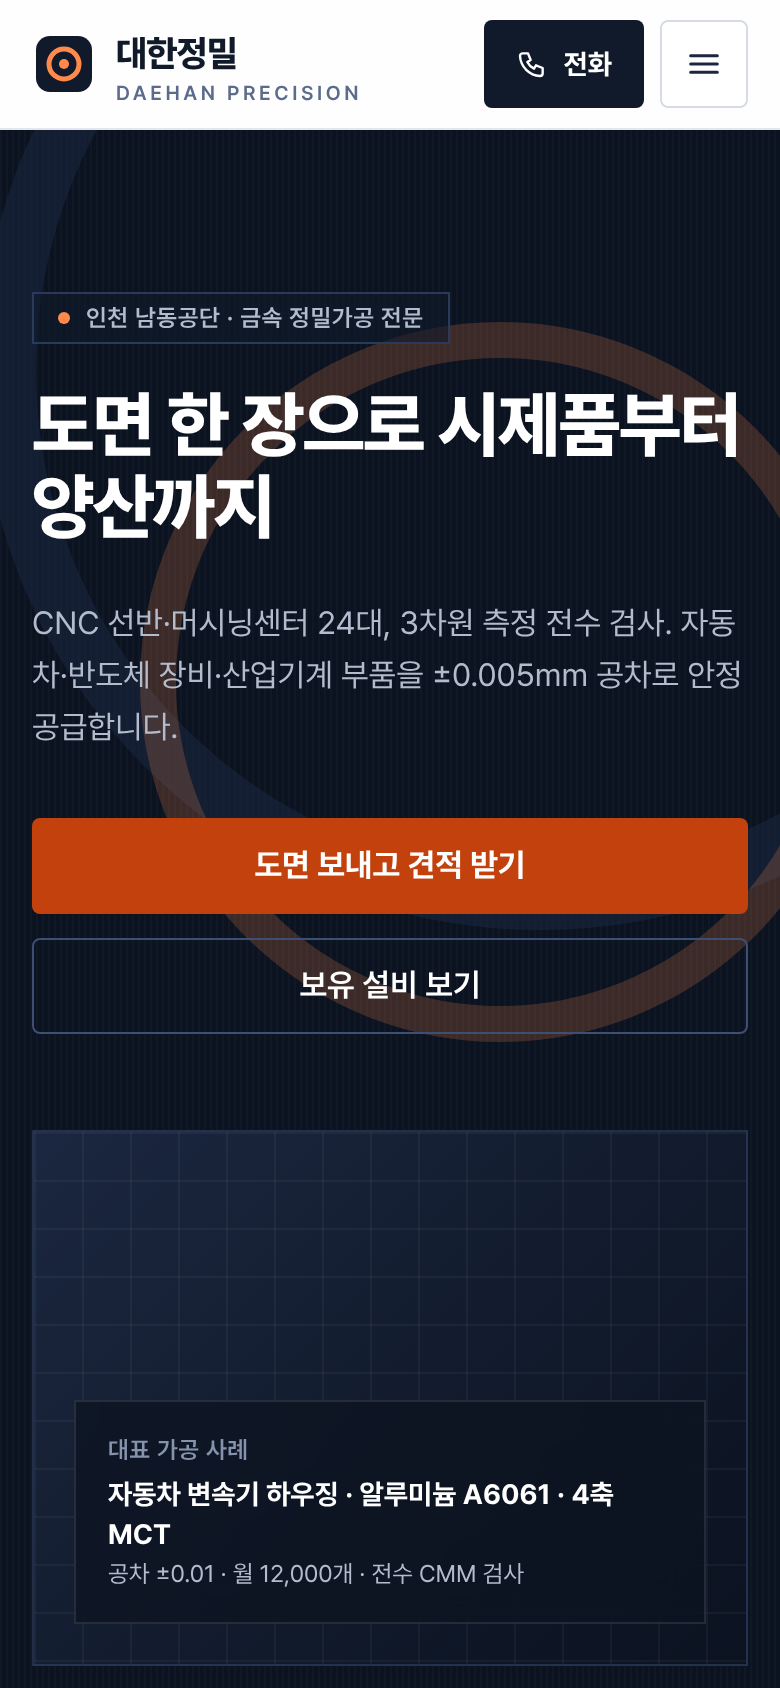
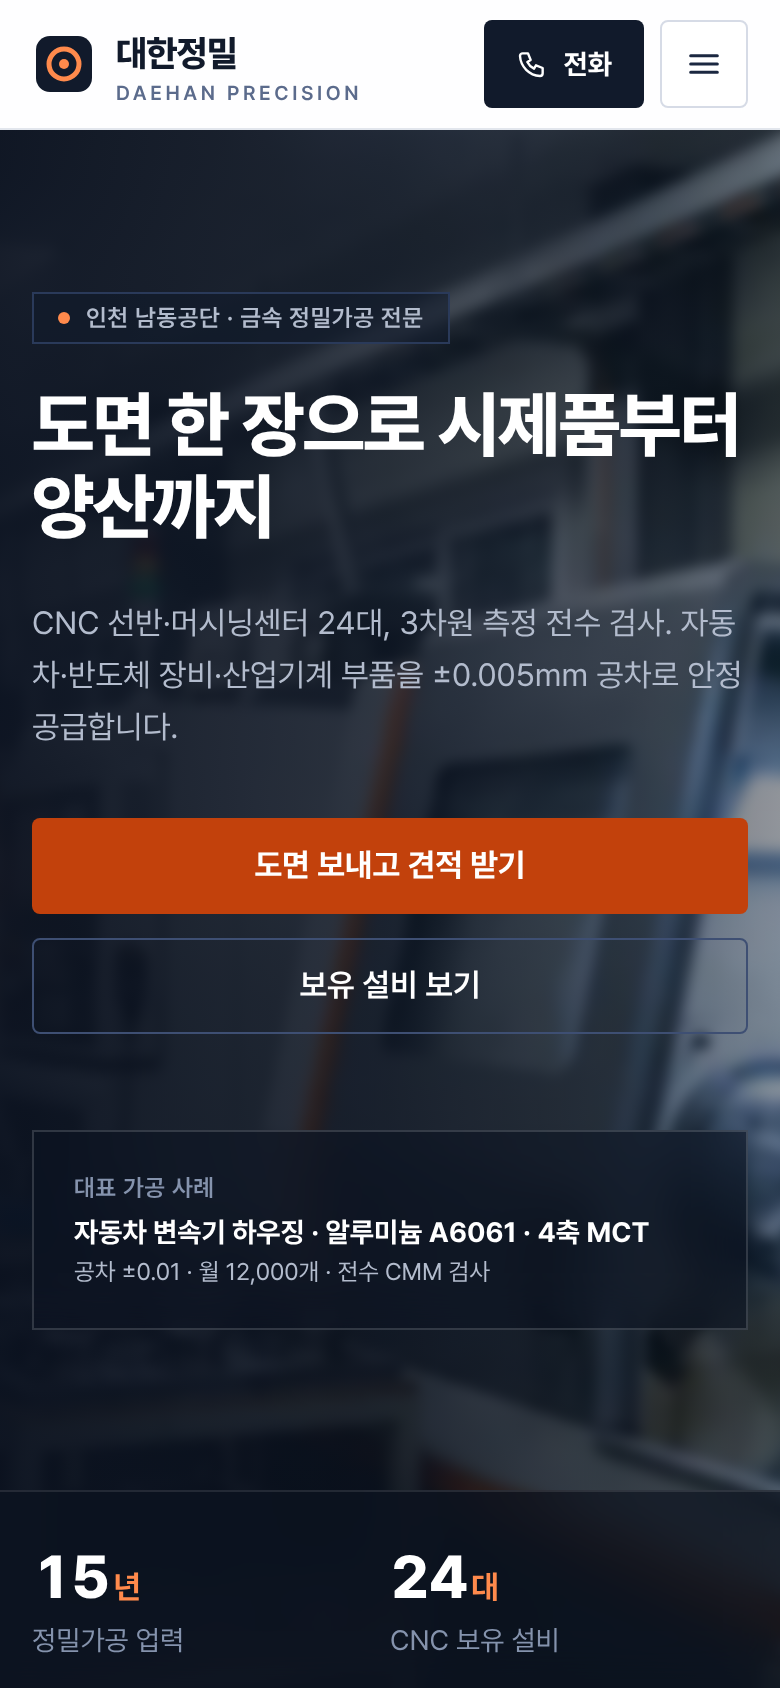
첫 화면 배경을 CNC 작업장 사진으로 교체
- 남색 배경과 원형 장식 → CNC 선반 작업장 사진 + 블러 + 왼쪽이 진한 어두운 막
- 대표 가공 사례 칸과 숫자 띠를 반투명 유리판(backdrop blur)으로 변경
- 문의·위치 칸 지도 자리에 공장 외관 사진 + 어두운 막
- 사진은 연습용 AI 생성 이미지 (웹용 압축 64KB, 74KB)
- 결정 기록과 화면 캡처 갱신

Claude-Session: https://claude.ai/code/session_01DUPWq6EuR5vwfeJNJfBBBc

diff --git a/app/page.tsx b/app/page.tsx
@@ -1,3 +1,4 @@
+import Image from "next/image";
 import {
   company,
   stats,
@@ -110,18 +111,20 @@ function Header() {
    ==================================================================== */
 function Hero() {
   return (
-    <section
-      id="top"
-      className="bg-brushed relative overflow-hidden bg-steel-950 text-white"
-    >
-      {/* 배경 장식: 큰 원형 가공물 느낌 */}
-      <div
-        aria-hidden
-        className="pointer-events-none absolute -right-40 -top-40 h-[560px] w-[560px] rounded-full border-[28px] border-steel-800/60"
+    <section id="top" className="relative overflow-hidden bg-steel-950 text-white">
+      {/* 배경 사진: CNC 선반 작업장 (연습용 AI 생성 이미지 — 실제 고객은 진짜 공장 사진으로 교체) */}
+      <Image
+        src="/images/hero-machines.webp"
+        alt=""
+        fill
+        priority
+        sizes="100vw"
+        className="scale-105 object-cover object-[70%_center] blur-[3px]"
       />
+      {/* 어두운 막: 왼쪽(글씨 쪽)은 진하게, 오른쪽(기계 쪽)은 옅게 — 흰 글씨가 또렷하게 읽히도록 */}
       <div
         aria-hidden
-        className="pointer-events-none absolute -right-10 top-24 h-[360px] w-[360px] rounded-full border-[18px] border-accent-400/20"
+        className="absolute inset-0 bg-gradient-to-r from-steel-950/95 via-steel-950/80 to-steel-950/45"
       />
 
       <div className="relative mx-auto grid max-w-6xl gap-12 px-4 py-20 sm:px-6 md:grid-cols-[1.1fr_0.9fr] md:py-28">
@@ -153,9 +156,9 @@ function Hero() {
           </div>
         </div>
 
-        {/* 사진 자리: 실제 고객의 공장 전경·설비 사진이 들어갈 곳 */}
-        <div className="photo-slot flex aspect-[4/3] items-end rounded-none border border-steel-700/70 p-5 md:aspect-auto">
-          <div className="relative z-10 w-full rounded-none border border-white/10 bg-steel-950/70 p-4 backdrop-blur">
+        {/* 대표 가공 사례: 배경 사진 위에 반투명 유리판처럼 띄움 */}
+        <div className="flex items-end">
+          <div className="w-full border border-white/15 bg-steel-950/55 p-5 backdrop-blur-md">
             <p className="text-xs font-semibold tracking-wide text-steel-400">
               대표 가공 사례
             </p>
@@ -170,7 +173,7 @@ function Hero() {
       </div>
 
       {/* 숫자 4개 */}
-      <div className="relative border-t border-steel-800 bg-steel-900/60">
+      <div className="relative border-t border-white/10 bg-steel-950/70 backdrop-blur-md">
         <dl className="mx-auto grid max-w-6xl grid-cols-2 divide-steel-800 px-4 sm:px-6 md:grid-cols-4 md:divide-x">
           {stats.map((s) => (
             <div key={s.label} className="py-6 md:px-6 md:first:pl-0">
@@ -443,7 +446,16 @@ function Contact() {
         </div>
 
         {/* 지도 자리: 네이버 지도 인증키를 받으면 이 자리에 실제 지도를 넣습니다 */}
-        <div className="photo-slot flex min-h-[280px] flex-col items-center justify-center rounded-none p-6 text-center">
+        <div className="relative flex min-h-[280px] flex-col items-center justify-center overflow-hidden bg-steel-950 p-6 text-center">
+          {/* 공장 외관 사진 (연습용 AI 생성 이미지) */}
+          <Image
+            src="/images/factory-exterior.webp"
+            alt="대한정밀 공장 외관"
+            fill
+            sizes="(min-width: 768px) 50vw, 100vw"
+            className="object-cover"
+          />
+          <div aria-hidden className="absolute inset-0 bg-steel-950/75" />
           <div className="relative z-10">
             <PinIcon className="mx-auto h-10 w-10 text-accent-400" />
             <p className="mt-3 text-base font-bold text-white">{company.addressShort}</p>

diff --git a/.omd/decisions.md b/.omd/decisions.md
@@ -13,3 +13,5 @@
 | 2026-11-01 | 모서리 | 거의 직각 (카드·표 0px, 버튼 4px) |
 | 2026-11-01 | 회사 정보 | app/content.ts의 가상 정보 사용 |
 | 2026-11-01 | DESIGN.md | 미리보기 확인 후 승인 |
+| 2026-11-01 | 첫 화면 배경 | 남색 배경 → CNC 선반 작업장 사진 + 블러 + 어두운 막 (AI 티 줄이기) |
+| 2026-11-01 | 사진 | 연습작은 제미나이 생성 이미지 사용 (기계 사진: 첫 화면, 공장 외관: 문의·위치). 실제 고객은 진짜 공장 사진으로 교체 |
